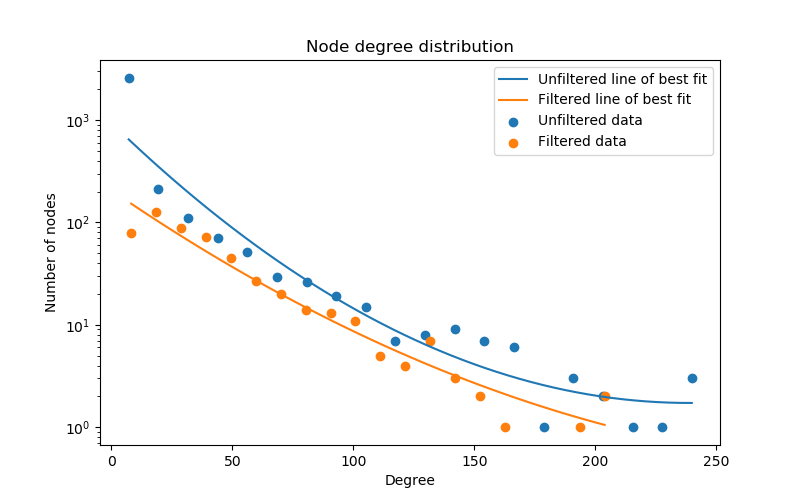
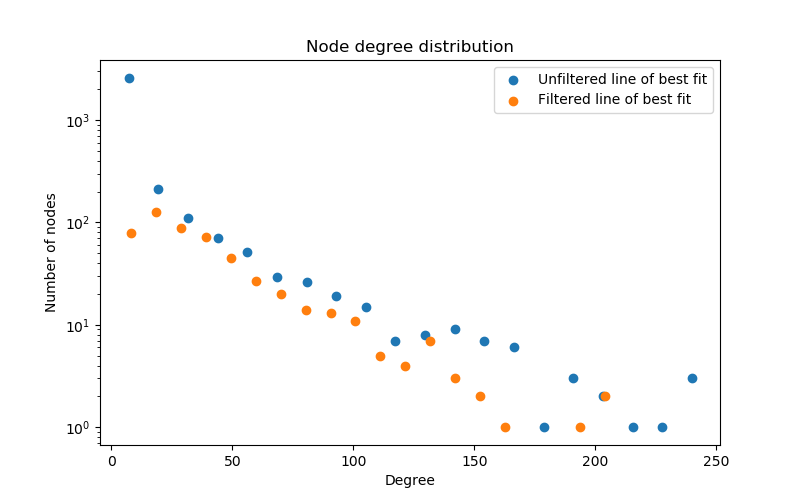
Started to write scripts to determine algorithm complexity

diff --git a/execute/plots/show_hereditary.py b/execute/plots/show_hereditary.py
@@ -10,6 +10,7 @@ leg = [
     'Unfiltered data',
     'Filtered data',
 ]
+with_best_fit = False
 
 # Raw data
 airports, routes = load_airport_and_route(filter_data=False, deep_load=True)
@@ -38,12 +39,13 @@ for ind in to_delete:
     f_h_data = delete(f_h_data, ind)
     f_midpoints = delete(f_midpoints, ind)
 
-fit_degree = 2
-uf_domain = linspace(min(raw_midpoints), max(raw_midpoints))
-f_domain = linspace(min(f_midpoints), max(f_midpoints))
+if with_best_fit:
+    fit_degree = 2
+    uf_domain = linspace(min(raw_midpoints), max(raw_midpoints))
+    f_domain = linspace(min(f_midpoints), max(f_midpoints))
 
-uf_best_fit = poly1d(polyfit(raw_midpoints, log(raw_h_data), fit_degree))
-f_best_fit = poly1d(polyfit(f_midpoints, log(f_h_data), fit_degree))
+    uf_best_fit = poly1d(polyfit(raw_midpoints, log(raw_h_data), fit_degree))
+    f_best_fit = poly1d(polyfit(f_midpoints, log(f_h_data), fit_degree))
 
 # Plot results
 fig = figure('Node degree distribution', figsize=fig_size)
@@ -53,8 +55,9 @@ ax.set_title('Node degree distribution')
 ax.scatter(raw_midpoints, raw_h_data)
 ax.scatter(f_midpoints, f_h_data)
 
-ax.plot(uf_domain, exp(uf_best_fit(uf_domain)))
-ax.plot(f_domain, exp(f_best_fit(f_domain)))
+if with_best_fit:
+    ax.plot(uf_domain, exp(uf_best_fit(uf_domain)))
+    ax.plot(f_domain, exp(f_best_fit(f_domain)))
 
 ax.set_yscale('log')
 ax.set_ylabel('Number of nodes')

diff --git a/execute/plots/algorithm_performance.py b/execute/plots/algorithm_performance.py
@@ -1,0 +1,40 @@
+from networkx import barabasi_albert_graph
+from time import time_ns
+from utilities.plotting import plot_scatter_data
+from utilities import save_trials
+from model.optimize import simple_centrality, maximum_entropy
+from numpy import array
+from model import network
+
+img_name = '../../results/algorithm_performance/comparison.png'
+data_path = '../../data/algorithm_performance/comparison.csv'
+
+strategies = [
+    simple_centrality,
+    maximum_entropy
+]
+
+net_sizes = [10, 20, 30, 50, 100, 150, 200, 250, 500, 750, 1000]
+optimize_times = []
+trials = 10
+
+for size in net_sizes:
+    netx = barabasi_albert_graph(size, 1)
+
+    tmp = 0
+    for i in range(trials):
+        net = network(size, graph=netx)
+        start = time_ns()
+        # simple_centrality(net, 2, quiet=True)
+        maximum_entropy(net, metric_id=1, quiet=True)
+        end = time_ns()
+        tmp += end - start
+
+    optimize_times.append(tmp / trials)
+    print('Done ' + str(size))
+
+
+data = array([net_sizes, optimize_times])
+save_trials(optimize_times, data_path, titles=net_sizes, single_line=True)
+plot_scatter_data(data, file_name=img_name, x_label='Network Size', y_label='Time to Optimize (ns)')
+

diff --git a/utilities/io.py b/utilities/io.py
@@ -80,7 +80,7 @@ def load_csv_col(file, cols=None, np_arr=True, with_headers=False, trans=False, 
     return data
 
 
-def save_trials(trial_data, filename, titles=None):
+def save_trials(trial_data, filename, titles=None, single_line=False):
     if type(trial_data) is not array:
         trial_data = array(trial_data)
 
@@ -90,13 +90,16 @@ def save_trials(trial_data, filename, titles=None):
         if titles is not None:
             wtr.writerow(titles)
 
-        steps = len(trial_data[0])
-        for i in range(steps):
-            wtr.writerow(trial_data[:, i])
+        if not single_line:
+            steps = len(trial_data[0])
+            for i in range(steps):
+                wtr.writerow(trial_data[:, i])
+        else:
+            wtr.writerow(trial_data)
 
 
-def save_distribution(dist, deep_save=False):
-    path = '../data/optimal_distribution/analytical.csv'
+def save_distribution(dist, deep_save=False, alt_file_name=None):
+    path = '../data/optimal_distribution/analytical.csv' if alt_file_name is None else alt_file_name
     if deep_save:
         path = '../' + path
 

diff --git a/model/optimize/centrality_strategies.py b/model/optimize/centrality_strategies.py
@@ -3,7 +3,7 @@ from utilities import dict_to_arr, balls_per_node, metrics, metric_names
 from numpy import zeros, sum, argmax
 
 
-def simple_centrality(network, method=0, netx_inp=False, red=None, budget_ratio=1):
+def simple_centrality(network, method=0, netx_inp=False, red=None, budget_ratio=1, quiet=False):
     metric = metrics.get(method)
     if metric is None:
         raise ValueError('Method value out of range')
@@ -23,5 +23,7 @@ def simple_centrality(network, method=0, netx_inp=False, red=None, budget_ratio=
     if sum(black) <= budget:
         black[argmax(centralities)] += budget - black_total
 
-    network.set_initial_distribution(red, black)
-    print(metric_names[method] + ' with ' + str(budget_ratio) + ' ratio complete')
+    if not netx_inp:
+        network.set_initial_distribution(red, black)
+    if not quiet:
+        print(metric_names[method] + ' with ' + str(budget_ratio) + ' ratio complete')

diff --git a/model/optimize/maximum_entropy.py b/model/optimize/maximum_entropy.py
@@ -2,7 +2,7 @@ from utilities import balls_per_node, dict_to_tuples, metrics, metric_names
 from numpy import zeros
 
 
-def maximum_entropy(network, netx_graph=False, metric_id=0):
+def maximum_entropy(network, netx_graph=False, metric_id=0, quiet=False):
     netx = network.network_plot if not netx_graph else network
     N = len(network)
     budget = balls_per_node * N
@@ -58,4 +58,5 @@ def maximum_entropy(network, netx_graph=False, metric_id=0):
 
     network.set_initial_distribution(black=black_dist)
 
-    print('Maximum entropy strategy with ' + metric_names[metric_id] + ' complete')
+    if not quiet:
+        print('Maximum entropy strategy with ' + metric_names[metric_id] + ' complete')

diff --git a/execute/plots/delay_impact.py b/execute/plots/delay_impact.py
@@ -54,5 +54,4 @@ if fresh_data:
 plot_infection(trial_infection, leg=delay, multiple=True, file_name=img_name, blocking=False)
 
 data = array([delay, time_N_infections])
-plot_scatter_data(data, x_label='Time step delay',
-                  y_label='Time-N Infection', file_name=scatter_name)
+plot_scatter_data(data, x_label='Time step delay', y_label='Time-N Infection', file_name=scatter_name)
